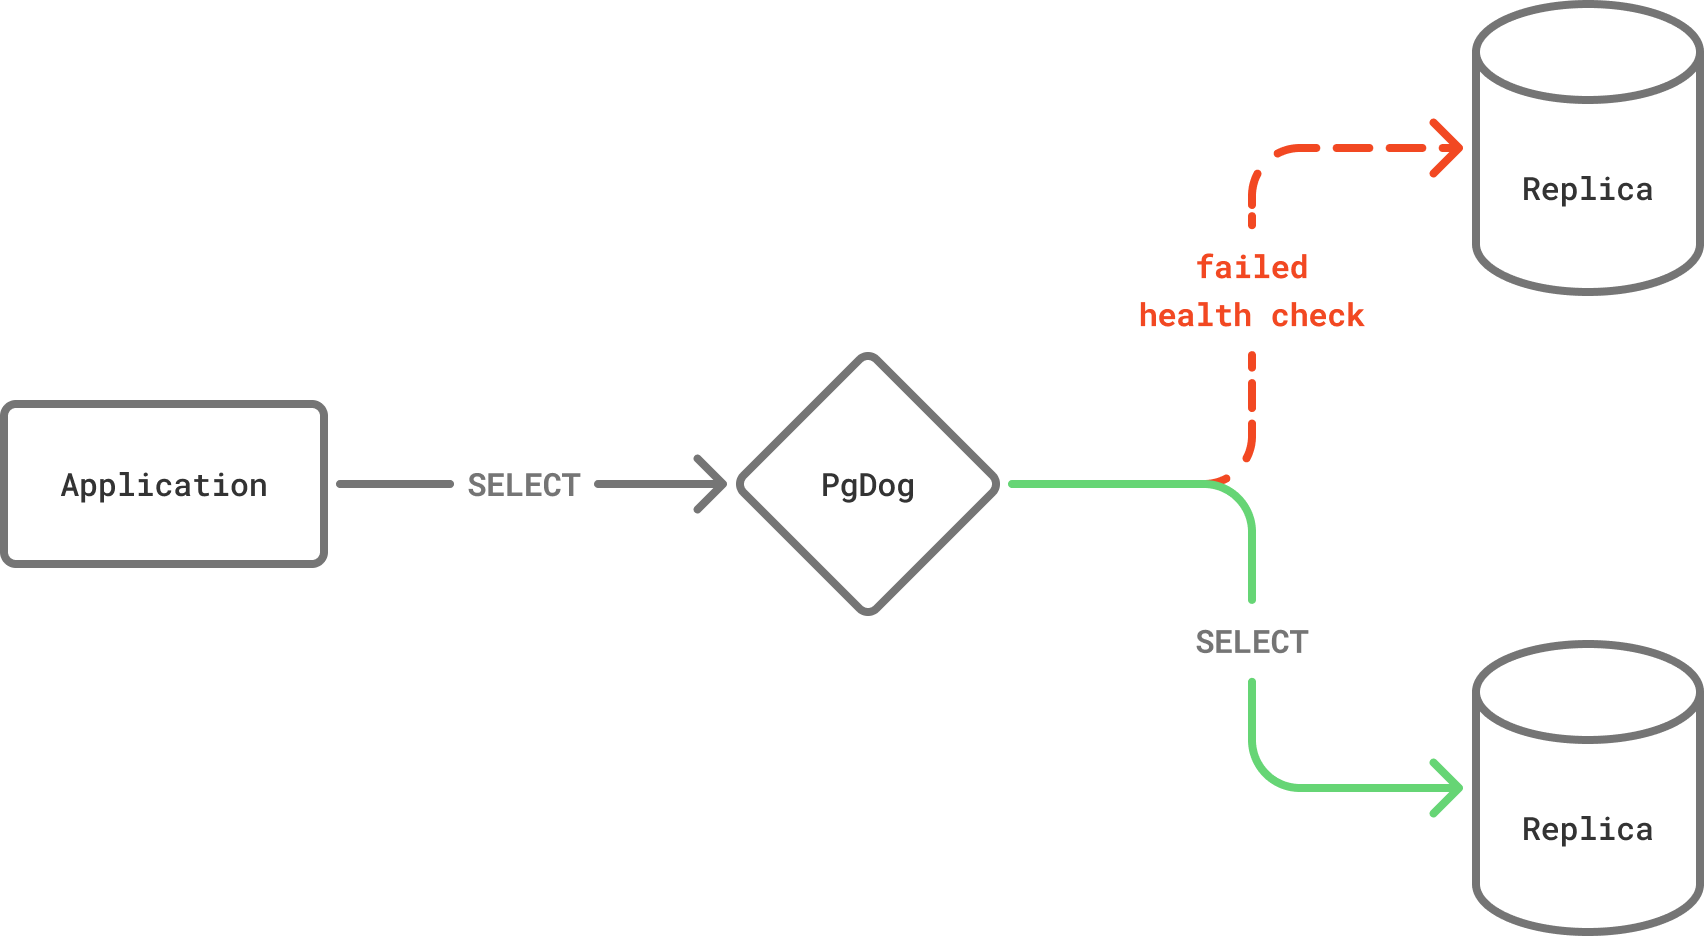
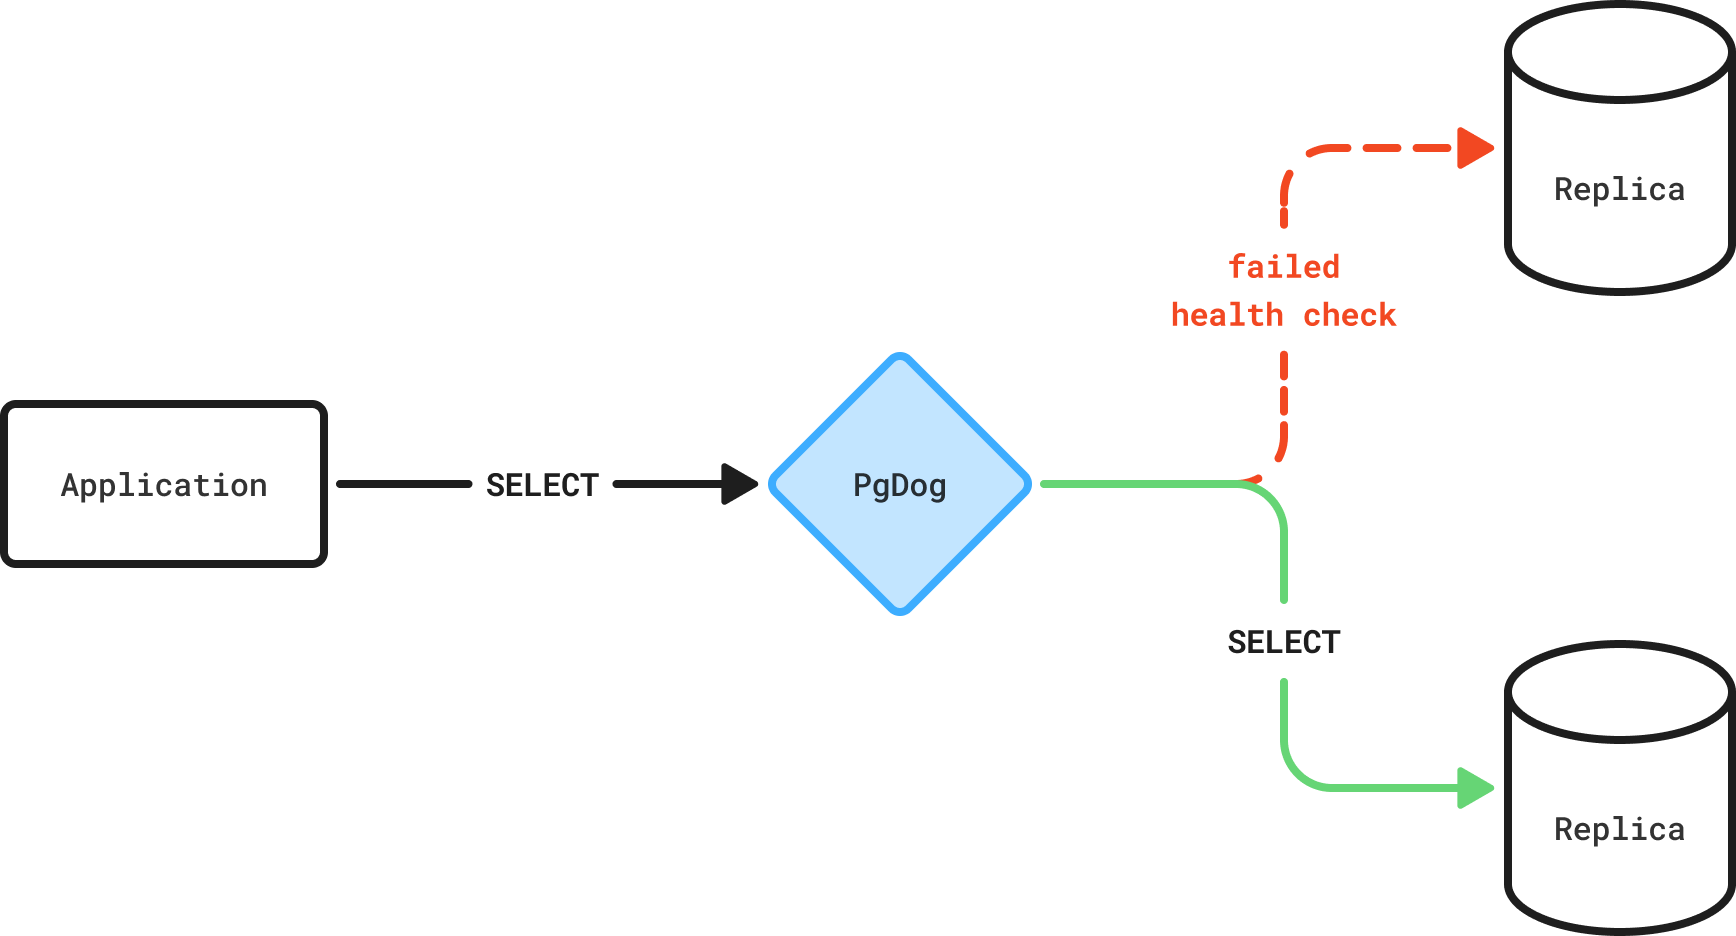
dark

diff --git a/docs/features/load-balancer/manual-routing.md b/docs/features/load-balancer/manual-routing.md
@@ -139,17 +139,17 @@ SET LOCAL "pgdog"."role" TO "primary";
 
 In this example, all transaction statements (including the `BEGIN` statement) will be sent to the primary database. Whether the transaction is committed or reverted, the value of `pgdog.role` will be reset to its previous value.
 
-!!! note "Statement ordering"
-    To make sure PgDog intercepts the routing hint early enough in the transaction flow, you need to send all hints _before_ executing actual queries.
+#### Statement ordering
+To make sure PgDog intercepts the routing hint early enough in the transaction flow, you need to send all hints _before_ executing DDL/DML statements.
 
-    The following flow, for example, _will not_ work:
+The following flow, for example, _will not_ work:
 
-    ```postgresql
-    BEGIN;
-    SELECT * FROM users WHERE id = $1;
-    SET LOCAL pgdog.role TO "primary"; -- The client is already connected to a server.
-    INSERT INTO users (id) VALUES ($1); -- If connected to a replica, this will fail.
-    ```
+```postgresql
+BEGIN;
+SELECT * FROM users WHERE id = $1;
+SET LOCAL pgdog.role TO "primary"; -- The client is already connected to a server.
+INSERT INTO users (id) VALUES ($1); -- If connected to a replica, this will fail.
+```
 
 
 
@@ -171,6 +171,24 @@ If you've configured the desired database role (and/or shard) for each of your a
 
 Once it's disabled, PgDog will rely solely on the `pgdog.role` and `pgdog.shard` parameters to make its routing decisions.
 
-### Session state & `SET`
+### Session state and SET
 
 The query parser is used to intercept and interpret `SET` commands. If the parser is disabled and your application uses `SET` commands to configure the connection, PgDog will not be able to guarantee that all connections have the correct session settings in [transaction mode](../connection-pooler/transaction-mode.md).
+
+You can keep the parser enabled for handling `SET` commands only as follows:
+
+=== "pgdog.toml"
+    ```toml
+    [general]
+    query_parser = "session_state"
+    ```
+=== "Helm chart"
+    ```yaml
+    queryParser: session_state
+    ```
+
+The internal implementation is using a very fast Regex to detect `SET` commands and will turn on the query parser for that statement only. The regex supports comments as well, so the following example will be detected:
+
+```postgresql
+/* api: users.create */ SET application_name TO 'sidekiq';
+```

diff --git a/docs/features/load-balancer/replication-failover.md b/docs/features/load-balancer/replication-failover.md
@@ -4,7 +4,7 @@ icon: material/chart-timeline-variant
 
 # Replication and failover
 
-PgDog has built-in functionality for monitoring the state of Postgres replica databases. If configured, it can also automatically detect when a replica is promoted and redirect write queries to the new primary, and ban replicas from serving traffic if they have fallen far behind in the replication stream.
+PgDog has built-in functionality for monitoring the state of Postgres replica databases. If configured, it can also automatically detect when a replica is promoted and redirect write queries to the new primary, or block replicas from serving traffic if they have fallen far behind in the replication stream.
 
 ## Replication
 
@@ -25,7 +25,7 @@ In addition to fetching raw metrics, PgDog can calculate the replication lag (al
 | Primary LSN | Get the LSN from the primary using `pg_current_wal_lsn()`. |
 | Replica LSN | Get the LSN from each replica using `pg_last_wal_replay_lsn()` or `pg_last_wal_receive_lsn()`. |
 | LSN check | If the two LSNs are identical, replication lag is 0. |
-| Calculate lag | If the two LSNs are different, replication lag is `now() - pg_last_xact_replay_timestamp()`. |
+| Calculate lag | If the two LSNs are different, replication lag is `now() - pg_last_xact_replay_timestamp()` retrieved from the replica. |
 
 This formula assumes that when the replica's LSN is behind the primary, the primary is still receiving write requests. While this is not always the case, it will show replication lag growing over time if the replication stream is falling behind or is broken.
 
@@ -33,7 +33,7 @@ This formula assumes that when the replica's LSN is behind the primary, the prim
     It is possible to calculate the exact replication delay in bytes by subtracting a replica LSN from the primary LSN. While this provides an exact measurement,
     that metric isn't very useful: it's hard to translate bytes into a measurement of how stale the data on the replica truly is.
     
-    Approximating the lag in milliseconds is more informative and will be reasonably accurate the majority of the time.
+    Approximating the lag in milliseconds is more informative and will be reasonably accurate most of the time.
 
 ### Configuration
 
@@ -66,10 +66,15 @@ Decreasing the value of `lsn_check_interval` will produce more accurate statisti
 
 It's common for PgDog deployments to be serving upwards of 30,000-50,000 queries per second per pooler process, so you can run the LSN check query quite frequently without noticeable impact on system latency.
 
+#### Saturated connection pool
+
+If the connection pool is at capacity, either due to a database incident or an inefficient query, PgDog will create a standalone connection to fetch the LSN from each database in the configuration. This is to make sure that it can't miss
+a [failover](#failover) event during a database incident.
+
 ### Replica lag ban
 
-!!! note "Experimental feature"
-    This feature is new and experimental. Please report any issues you encounter.
+!!! note "New feature"
+    This feature is new and experimental. Please report any issues you may encounter.
 
 If a replica has fallen far behind the primary, it may start serving stale data to the application. This can cause hard to debug issues, so it's often best to remove this replica from the load balancer until it's able to catch up.
 
@@ -98,13 +103,14 @@ Unlike [health check-triggered](healthchecks.md) bans, replica lag ban is not cl
 
 ## Failover
 
-<center>
-  <img src="/images/failover.png" width="95%" alt="Failover" />
-</center>
-
 If the `pg_is_in_recovery()` function returns `true`, the database is configured as a standby. It can only serve read queries (e.g. `SELECT`) and is expected to be reasonably up-to-date with the primary database.
 
 Replica databases can be promoted to serve write queries. If that happens, `pg_is_in_recovery()` will start returning `false`. You can read more about this in the [PostgreSQL documentation](https://www.postgresql.org/docs/18/functions-admin.html#FUNCTIONS-RECOVERY-CONTROL).
+
+<center>
+  <img src="/images/failover.png" width="90%" alt="Failover" class="theme-aware-image" />
+  <p>Failover event</p>
+</center>
 
 !!! warning "Failover trigger"
     PgDog does not detect primary failure and **will not** call `pg_promote()`. It is expected that the databases are managed externally by another tool, like Patroni or AWS RDS, which handle replica promotion.
@@ -139,6 +145,10 @@ Failover is disabled by default. To enable it, change all configured databases i
     ```
 
 On startup, PgDog will connect to each database, find out if they are in recovery, and automatically reload its configuration with the determined roles.
+
+!!! info "Replication lag monitoring"
+    In order for PgDog to detect failover events, it needs to query the database for its [replication status](#configuration). Make sure to set
+    `lsn_check_delay` to a reasonable value (e.g., `0`) before enabling this feature.
 
 ### Split brain
 

diff --git a/docs/features/load-balancer/healthchecks.md b/docs/features/load-balancer/healthchecks.md
@@ -9,7 +9,8 @@ All databases load balanced by PgDog are regularly checked with health checks. A
 If a replica database fails a health check, it's temporarily removed from the load balancer, preventing it from serving queries for a configurable period of time.
 
 <center>
-  <img src="/images/healthchecks.png" width="80%" alt="Healthchecks"/>
+  <img src="/images/healthchecks.png" width="80%" alt="Healthchecks" class="theme-aware-image" />
+  <p>Health checks prevent broken databases from serving queries.</p>
 </center>
 
 ## How it works
@@ -23,8 +24,7 @@ PgDog performs two kinds of health checks to ensure applications don't accidenta
 
 If a connection or database fails a health check, it is **temporarily removed** from the load balancer and cannot serve any more queries. This prevents applications from continuously hitting a broken database until it's restarted by an administrator.
 
-!!! note "99.99% uptime"
-    This strategy is very effective at reducing error rates in busy applications. If you are operating a large number of databases, hardware failures are relatively common and an effective load balancer is required to maintain 99.99% database uptime.
+This strategy is very effective at reducing error rates in busy applications. If you are operating a large number of databases, hardware failures are relatively common and an effective load balancer is required to maintain 99.99% database uptime.
 
 ### Connection health check
 
@@ -85,6 +85,13 @@ When PgDog is first started, it's possible that the database or the network is n
 
 The **default** value for this setting is **5 seconds** (`5_000` milliseconds).
 
+!!! note "Disabling health checks"
+    If you want to disable database health checks, you can set the `idle_healthcheck_delay` setting to a large number, e.g. 100 years, in milliseconds:
+
+    ```toml
+    [general]
+    idle_healthcheck_delay = 3155760000000
+    ```
 
 ### Primary database exception
 
@@ -108,10 +115,7 @@ The amount of time the database is banned from serving traffic is controlled wit
 
 The **default** value is **5 minutes** (`300_000` milliseconds).
 
-!!! note
-    A database will not be placed back into the load balancer until it passes a health check again.
-
-    Make sure that `idle_healthcheck_interval` is set to a lower value than `ban_timeout`, so health checks have time to run before you expect the database to resume serving traffic.
+A database will not be placed back into the load balancer until it passes a health check again. Make sure that `idle_healthcheck_interval` is set to a lower value than `ban_timeout`, so health checks have time to run before you expect the database to resume serving traffic.
 
 ### False positives
 
@@ -170,7 +174,10 @@ This is configurable on startup only and will spin up an HTTP server on `http://
 
 This health check looks at all configured connection pools, and if **at least one** is online, responds with `HTTP/1.1 200 OK`. If _all_ connection pools are down because of failed health checks, PgDog will respond with `HTTP/1.1 502 Bad Gateway`.
 
-!!! note "Handling a lot of requests"
-    The HTTP health check uses existing internal state to answer requests and doesn't send queries to the connection pools. This makes it very quick and inexpensive, which ensures that massively distributed load balancers (like the AWS NLB) don't cause an unexpected influx of requests to the database.
+#### Handling a lot of requests
+
+The HTTP health check uses existing internal state to answer requests and doesn't send queries to the connection pools. This makes it very quick and inexpensive, which ensures that massively distributed load balancers (like the AWS NLB) don't cause an unexpected influx of requests to the database.
+
+#### HTTPS
 
 To make configuration easier, the health check endpoint doesn't support HTTPS, so make sure to configure your load balancer to use plain HTTP only.

diff --git a/docs/features/load-balancer/index.md b/docs/features/load-balancer/index.md
@@ -9,7 +9,7 @@ icon: material/lan
 
 # Load balancer overview
 
-PgDog understands the PostgreSQL wire protocol and uses its SQL parser to understand queries. This allows it to split read queries from write queries and distribute traffic evenly between databases.
+PgDog understands the PostgreSQL wire protocol and uses the native PostgreSQL parser to understand queries. This allows it to split read queries from write queries and distribute traffic evenly between databases.
 
 Applications can connect to a single PgDog [endpoint](#single-endpoint), without having to manually manage multiple connection pools.
 
@@ -18,13 +18,15 @@ Applications can connect to a single PgDog [endpoint](#single-endpoint), without
 When a query is received by PgDog, it will inspect it using the native Postgres SQL parser. If the query is a `SELECT` and the [configuration](../../configuration/pgdog.toml/databases.md) contains both primary and replica databases, PgDog will send it to one of the replicas. For all other queries, PgDog will send them to the primary.
 
 <center>
-  <img src="/images/replicas.png" width="80%" alt="Load balancer" />
+  <img src="/images/replicas.png" width="95%" alt="Load balancer" class="theme-aware-image" />
+  <p>Load balancer topology</p>
 </center>
 
 Applications don't have to manually route queries between databases or maintain several connection pools internally.
 
-!!! note "SQL compatibility"
-    PgDog's query parser is powered by the `pg_query` library, which extracts the Postgres native SQL parser directly from its source code. This makes it **100% compatible** with the PostgreSQL query language and allows PgDog to understand all valid PostgreSQL queries.
+### SQL compatibility
+
+PgDog's query parser is powered by the `pg_query` library, which extracts the Postgres native SQL parser directly from its source code. This makes it **100% compatible** with the PostgreSQL query language and allows PgDog to understand all valid PostgreSQL queries.
 
 ## Load distribution
 

diff --git a/docs/features/connection-pooler/index.md b/docs/features/connection-pooler/index.md
@@ -39,6 +39,12 @@ If your application uses `LISTEN`/`NOTIFY`, e.g., [DBOS](https://dbos.dev) or an
 
 This allows applications to use `LISTEN`/`NOTIFY` in [transaction mode](pub_sub.md), just like any other Postgres feature.
 
+### Connection recovery
+
+Unlike other poolers, PgDog takes extra care not to close connections to Postgres unless absolutely necessary. It goes as far as to roll back abandoned transactions and drain abandoned queries. This protects the database against connection storms created by buggy applications.
+
+You can read more about connection recovery methods [here](connection-recovery.md).
+
 ## Read more
 
 {{ next_steps_links([